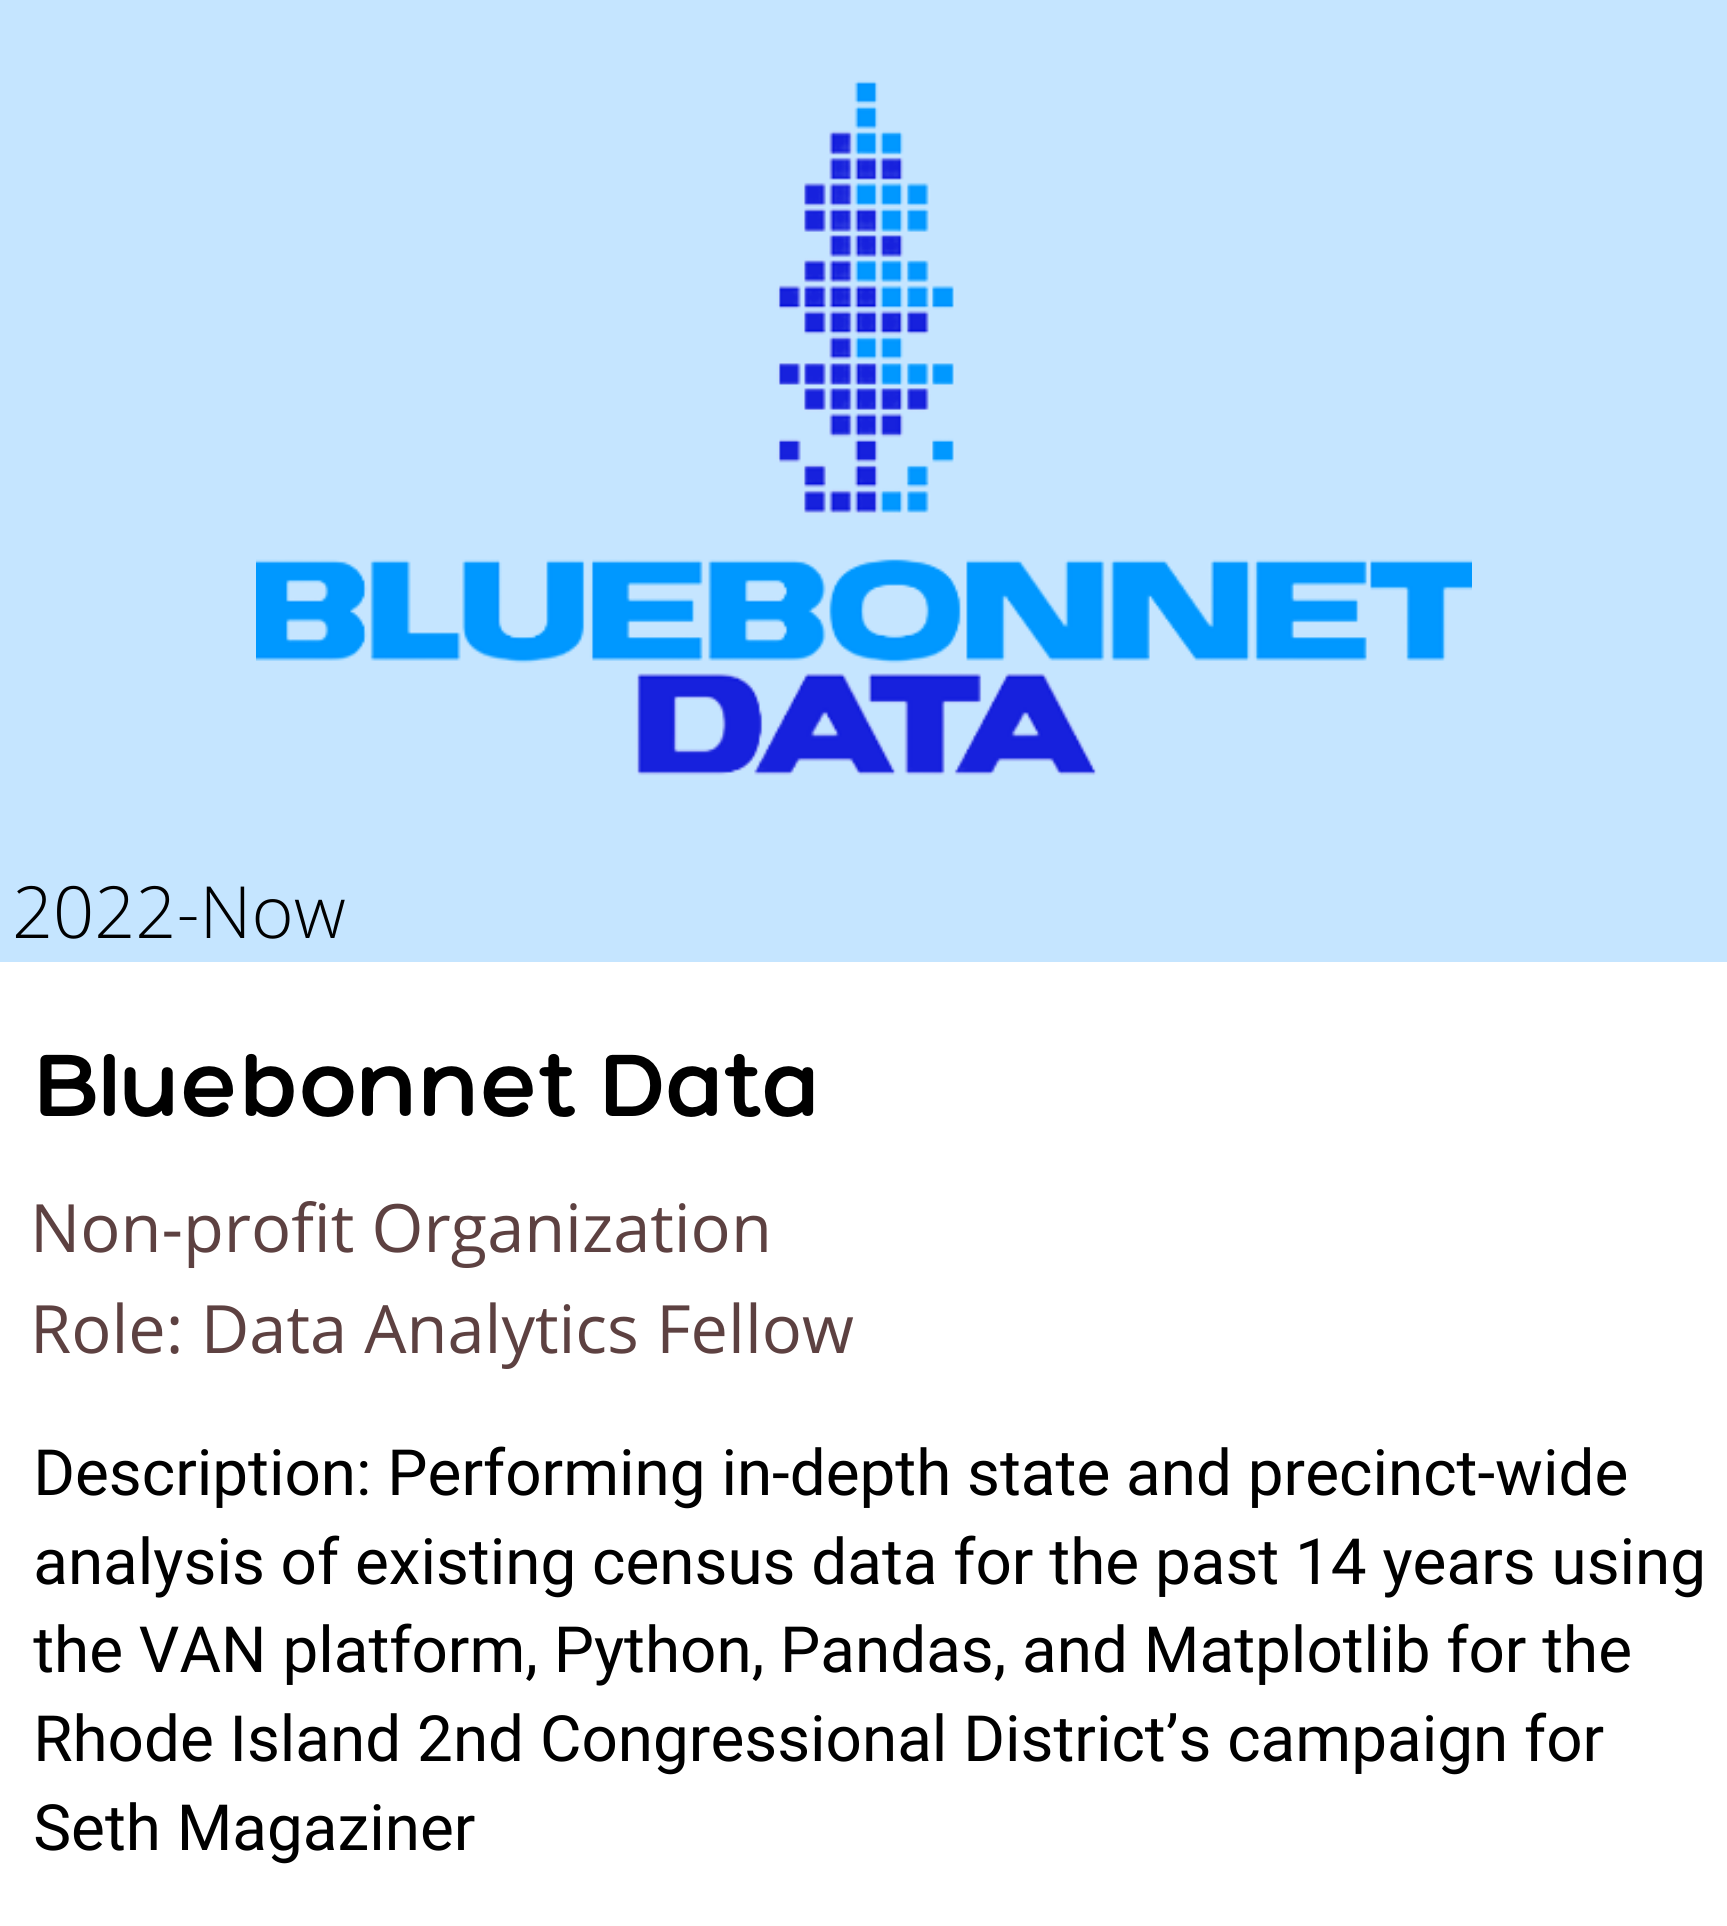
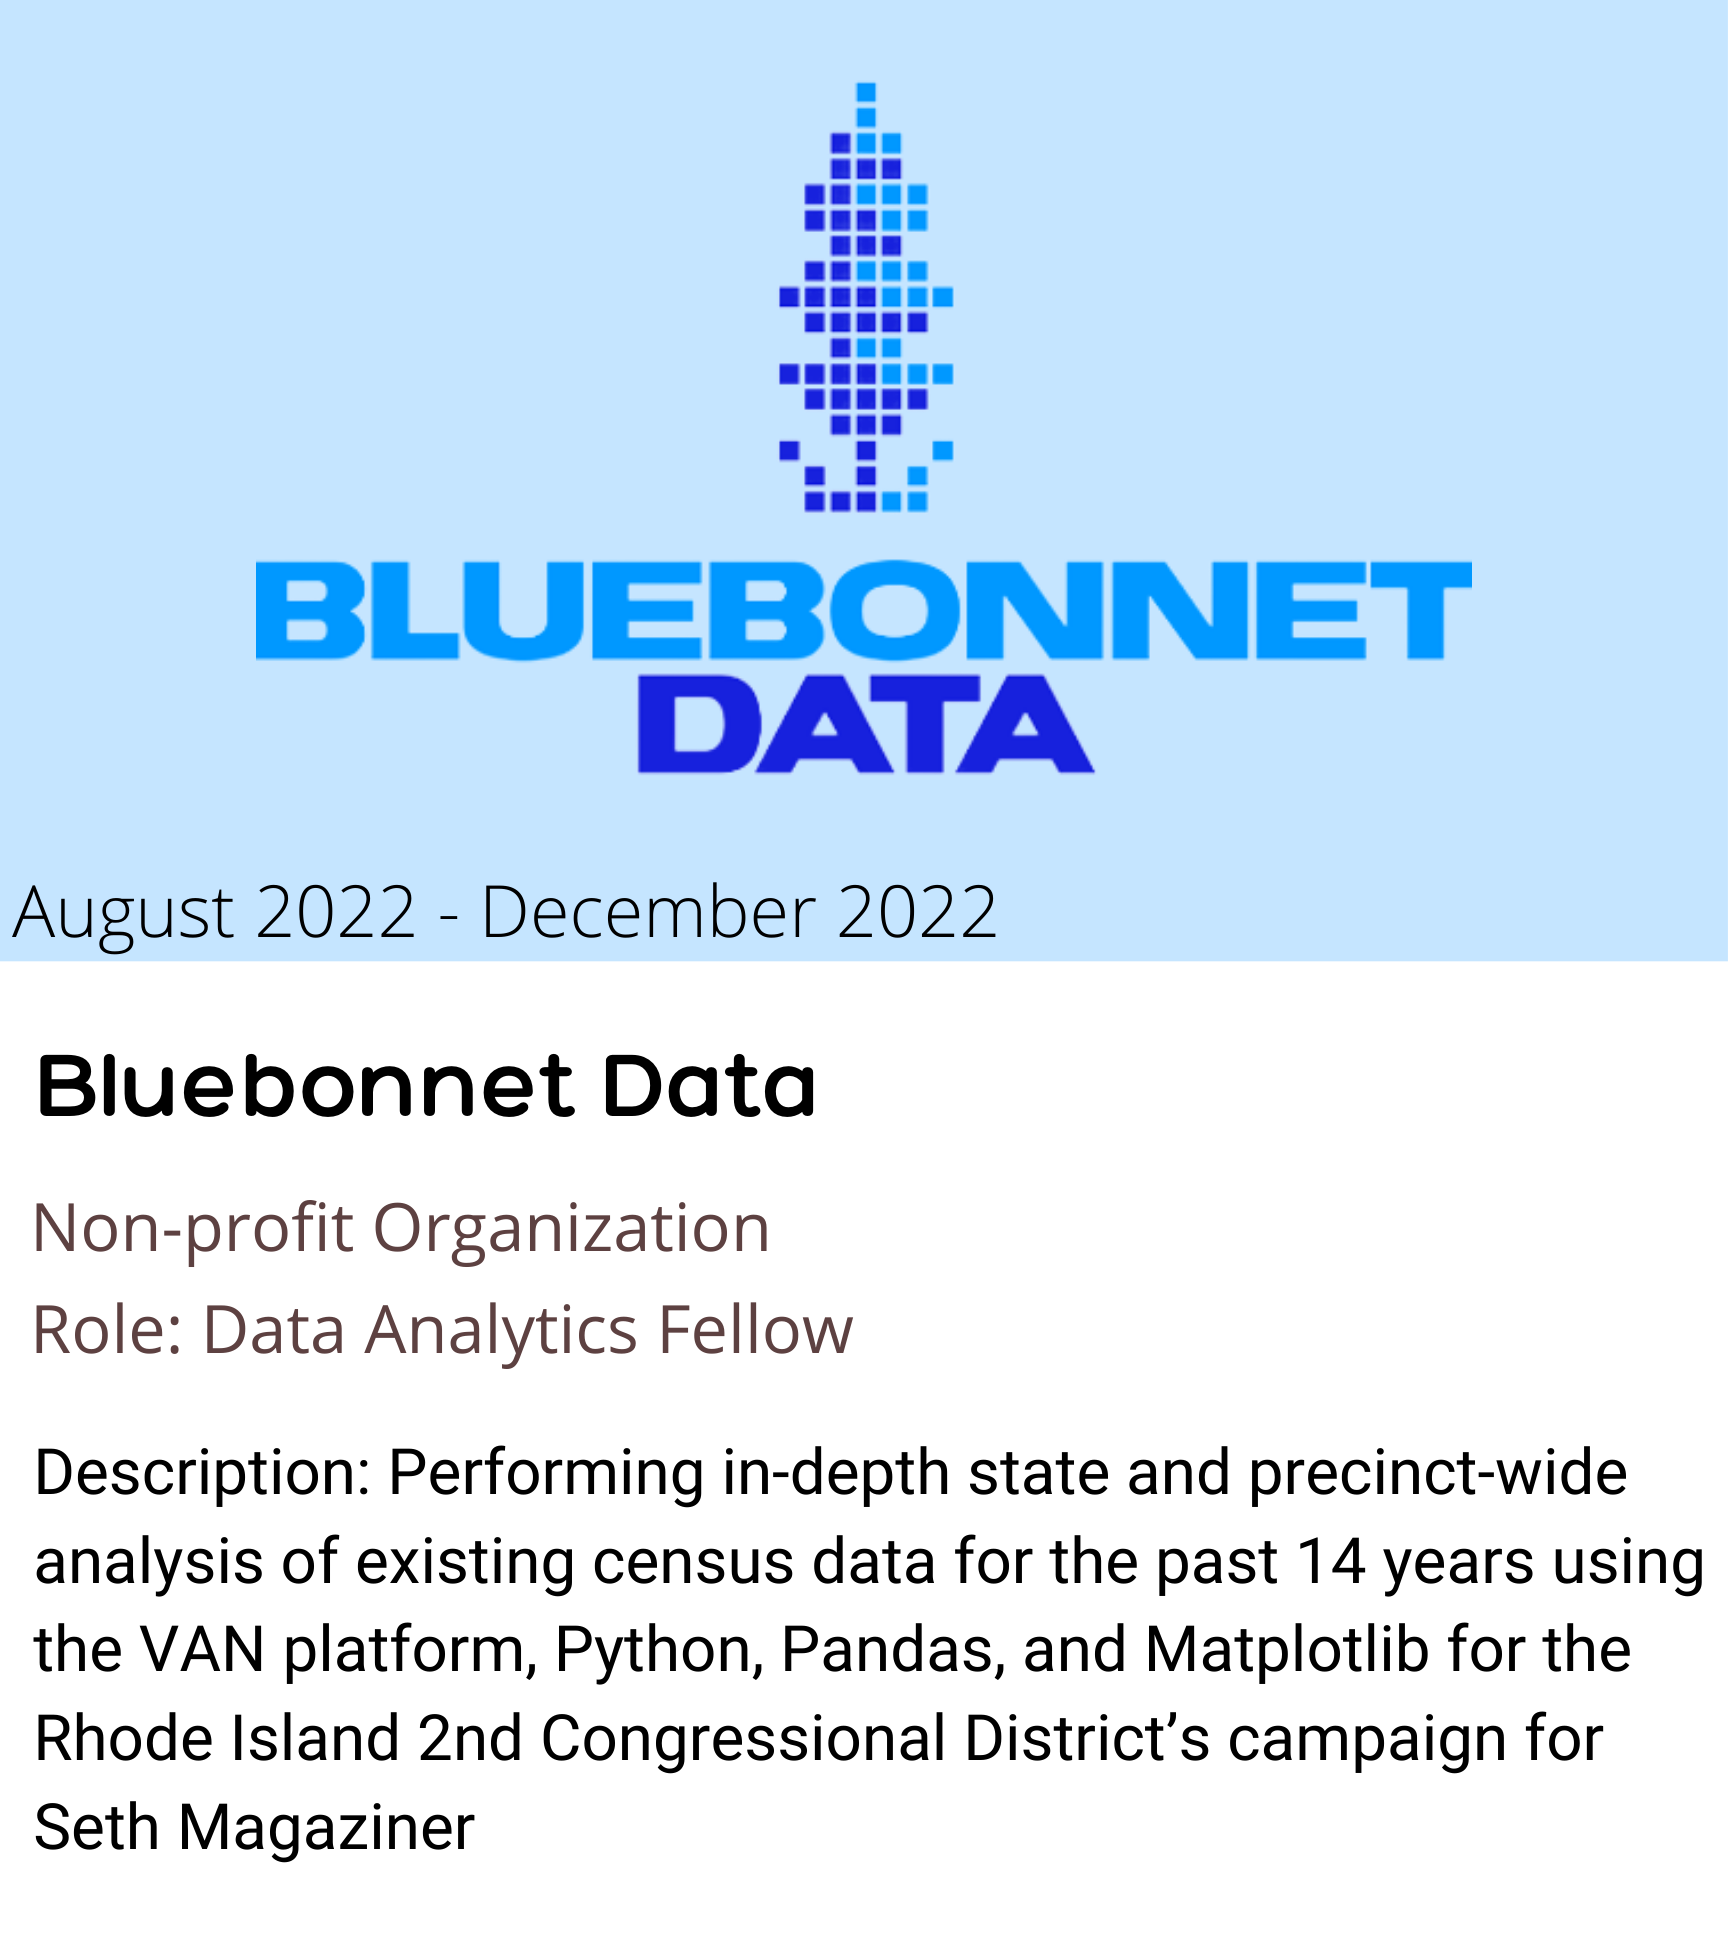
add new experience and project, update resume link, and add dates on previous experiences

diff --git a/main.html b/main.html
@@ -42,7 +42,7 @@
           <div class="navbar-collapse collapse w-100 order-3 dual-collapse2">
               <ul class="navbar-nav ml-auto">
                     <li class="navbar-brand">
-                      <a class="nav-link" href="https://drive.google.com/file/d/1r_knpr5eqzeMTV-gV_4GO9hUA-VYxBw4/view?usp=sharing">Resume</a>
+                      <a class="nav-link" href="https://drive.google.com/file/d/1p3whVTzdA4-cPGwXoovDjAuYPa0w2zXi/view?usp=sharing">Resume</a>
                   </li>
                   <li class="nav-item">
                     <a class="nav-link" href="mailto:palak.mehta272@gmail.com" target="_blank"><img src="img/email_icon.png" class="img-fluid connect" alt="Email"></a>
@@ -72,10 +72,13 @@
         <br>
         <div class="row">
           <div class="col-sm-4 center project">
-            <img src="img/JPMorgan Chase.png" class="rounded image">
+            <img src="img/Final Amazon.png" class="rounded image">
           </div>
           <div class="col-sm-4 center project">
-            <img src="img/Rutgers CS LA.png" class="rounded image">
+            <img src="img/Final JPMorgan Chase.png" class="rounded image">
+          </div>
+          <div class="col-sm-4 center project">
+            <img src="img/Final Rutgers CS TA.png" class="rounded image">
           </div>
           <div class="col-sm-4 center project">
             <a href="https://beacons.ai/rutgersblueprint/" target="_blank">
@@ -88,14 +91,7 @@
             </a>
           </div>
           <div class="col-sm-4 center project">
-            <a href="https://beacons.ai/rutgers_bits" target="_blank">
-              <img src="img/Final BITS.png" class="img-fluid rounded image">
-            </a>
-          </div>
-          <div class="col-sm-4 center project">
-            <a href="https://rutgerswics.org/" target="_blank">
-              <img src="img/Final Microsoft.png" class="img-fluid rounded image">
-            </a>
+            <img src="img/Final Microsoft.png" class="img-fluid rounded image">
           </div>
         </div>
         <br>
@@ -106,13 +102,13 @@
         <br>
         <div class="row">
           <div class="col-sm-4 center project">
-            <a href="https://github.com/pmehta124/MasterNotes" target="_blank">
-              <img src="img/Final MasterNotes.png" class="img-fluid rounded image">
+            <a href="https://github.com/pmehta124/Google-Calendar-Schedule-Recommendations-with-Google-Gemini-AI" target="_blank">
+              <img src="img/Final Google Calendar Reccomendation.png" class="img-fluid rounded image">
             </a>
           </div>
           <div class="col-sm-4 center project">
-            <a href="https://github.com/pmehta124/Pizza-Order-Management-System" target="_blank">
-              <img src="img/Final Pizza Project.png" class="img-fluid rounded image">
+            <a href="https://github.com/pmehta124/MasterNotes" target="_blank">
+              <img src="img/Final MasterNotes.png" class="img-fluid rounded image">
             </a>
           </div>
           <div class="col-sm-4 center project">
@@ -121,8 +117,8 @@
             </a>
           </div>
           <div class="col-sm-4 center project">
-            <a href="https://github.com/pmehta124/Load-Balacing-with-Domain-Name-Server-DNS-/tree/main" target="_blank">
-              <img src="img/Final Domain Name Server Simulation.png" class="img-fluid rounded image">
+            <a href="https://github.com/pmehta124/Pizza-Order-Management-System" target="_blank">
+              <img src="img/Final Pizza Project.png" class="img-fluid rounded image">
             </a>
           </div>
           <div class="col-sm-4 center project">
